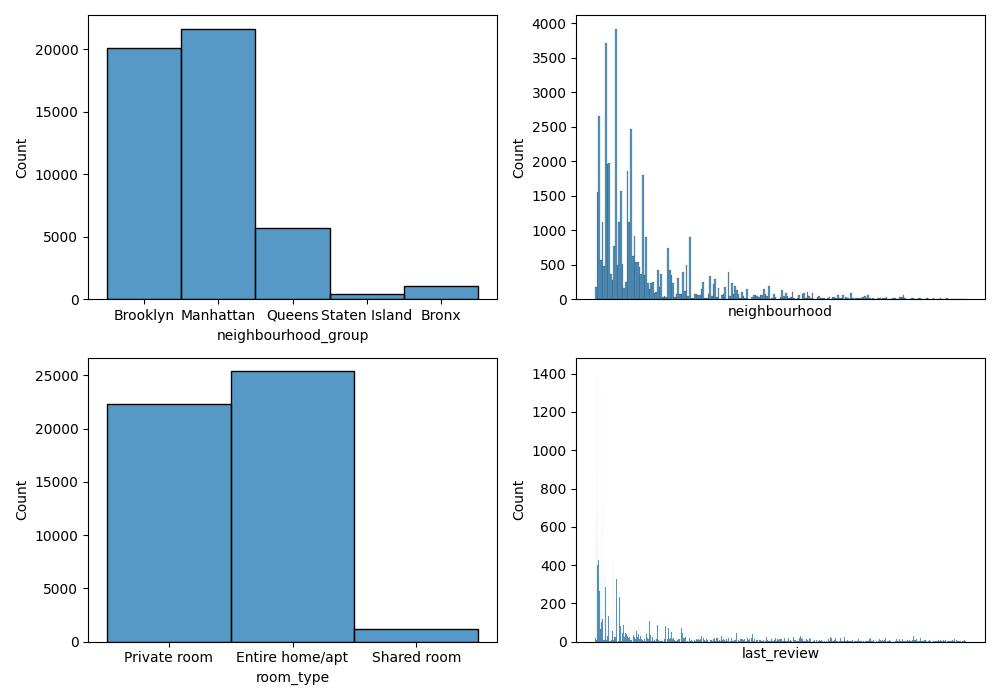
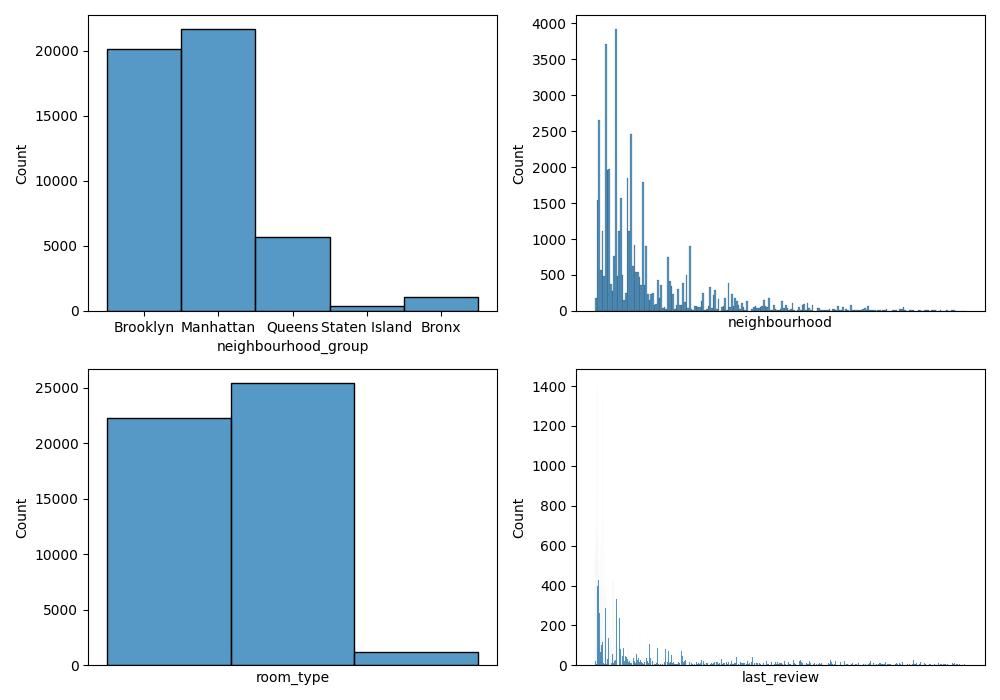
new

diff --git a/src/app.py b/src/app.py
@@ -28,6 +28,7 @@ df_num = df.select_dtypes(include=np.number)
 df_cat = df.select_dtypes(include=["object"])
 print(df.info())
 
+
 """Categorical Data"""
 fig, axis = plt.subplots(2, 2, figsize = (10, 7))
 
@@ -38,7 +39,7 @@ for i in range(2):
     for j in range(2):
         c = df_cat.columns[index]
         s = sns.histplot(ax = axis[i,j],data = df_cat, x = c)
-        if c in ["neighbourhood", "last_review"]:
+        if c in ["neighbourhood", "last_review", "room_type"]:
             s.set_xticks([])
         index  +=1
 # Adjust the layout
@@ -48,7 +49,17 @@ plt.tight_layout()
 # Show the plot
 plt.savefig("df_cat.jpg")
 
-plt.show()
+plt.clf()
+sns.countplot(data = df, x="room_type", hue="price")
+plt.savefig("corr_price_roomType.jpg")
+
+plt.clf()
+sns.regplot(data=df, x="minimum_nights", y="price")
+plt.savefig("reg_min_nights_price.jpg")
+
+plt.clf()
+sns.regplot(data=df, x="reviews_per_month", y="number_of_reviews")
+plt.savefig("reg_reviews.jpg")
 
 """Numerical Data"""
 fig, axis = plt.subplots(4, 4, figsize = (10, 7))
@@ -62,6 +73,7 @@ for i in range(2):
         sns.histplot(ax = axis[i,j],data = df_num, x = c)
         sns.boxplot(ax = axis[i+2,j],data = df_num, x = c)
         index  +=1
+        
 # Adjust the layout
 plt.tight_layout()
 
@@ -124,3 +136,4 @@ df['last_review'] = df['last_review'].fillna(method='ffill')
 df["reviews_per_month"].fillna(df["reviews_per_month"].mean(), inplace = True)
 print(df.isnull().sum().sort_values(ascending=False)/len(df))
 
+"""we want to predict the price of the houses. Split train set y var = price. """
